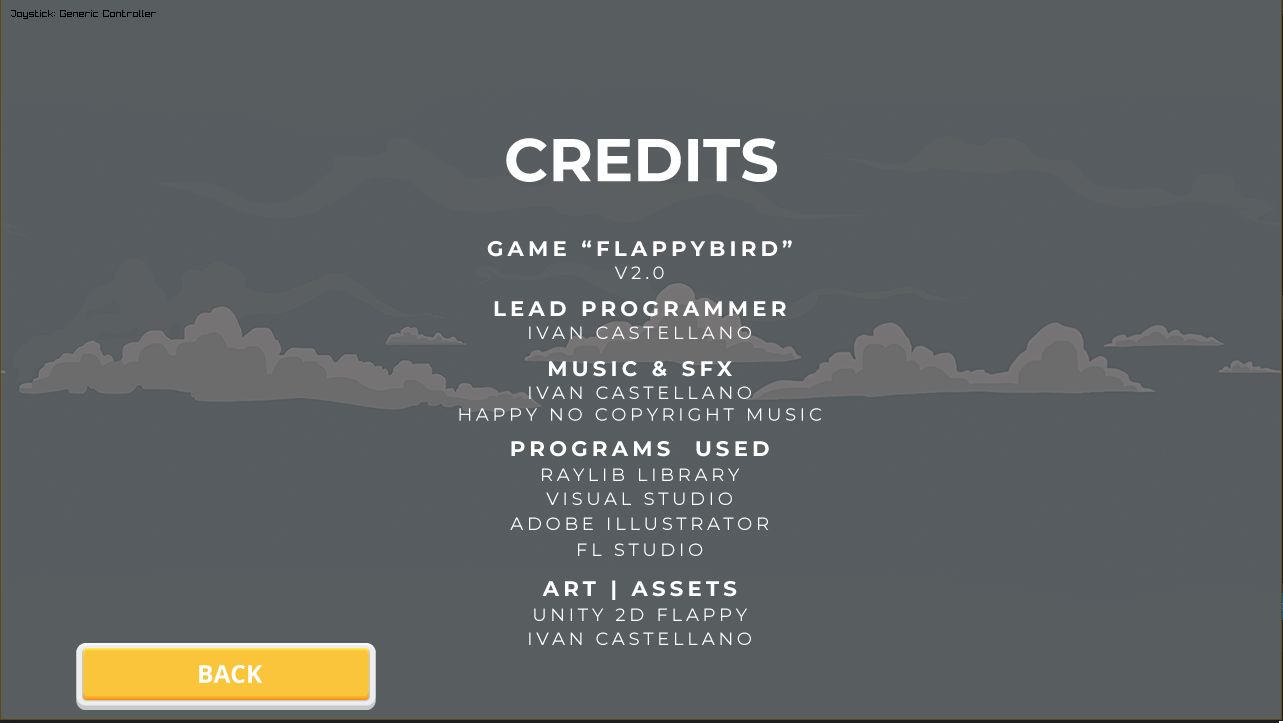
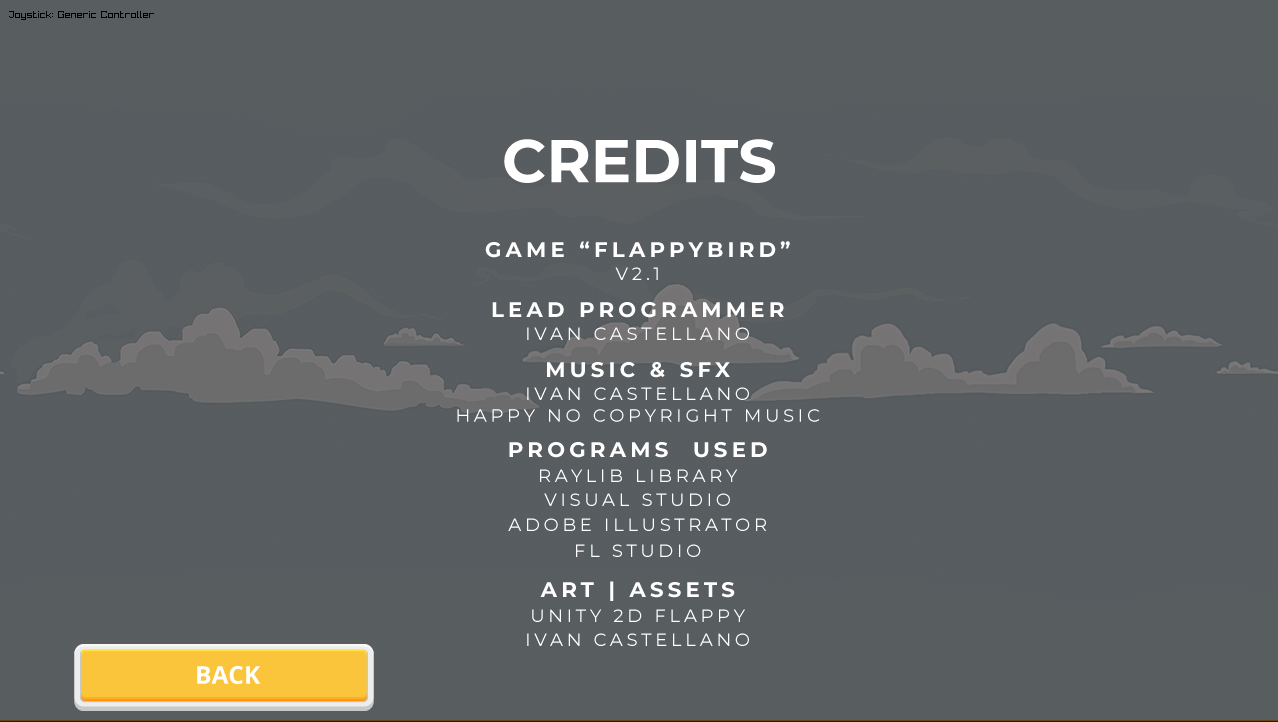
profile up to date

diff --git a/CHANGELOG.md b/CHANGELOG.md
@@ -2,6 +2,10 @@
 
 All notable changes to this project will be documented in this file.
 
+## [2.1] - 2019-07-29
+### Fixed
+- Multiplayer Freeze bug
+
 ## [2.0] - 2019-07-29
 ### Added
 - New Multiplayer CO-OP mode
